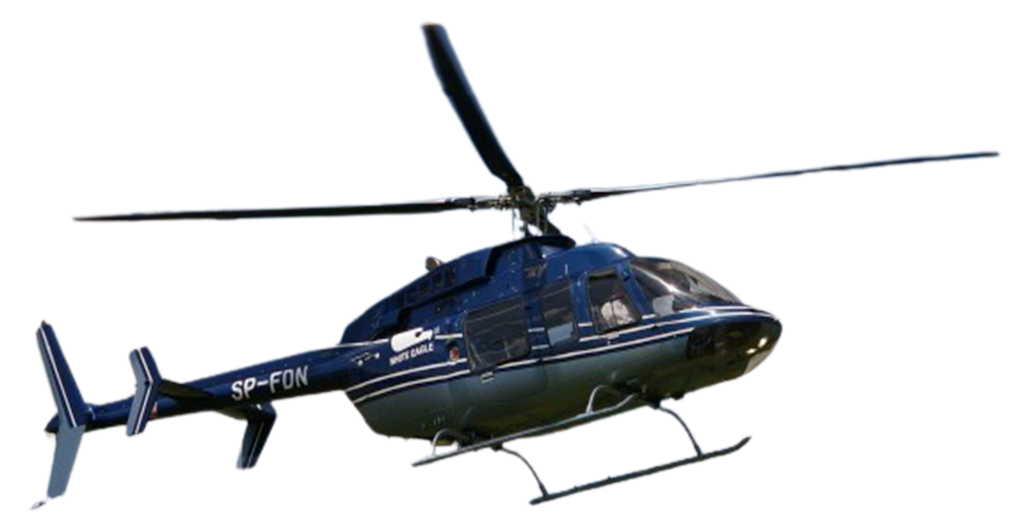
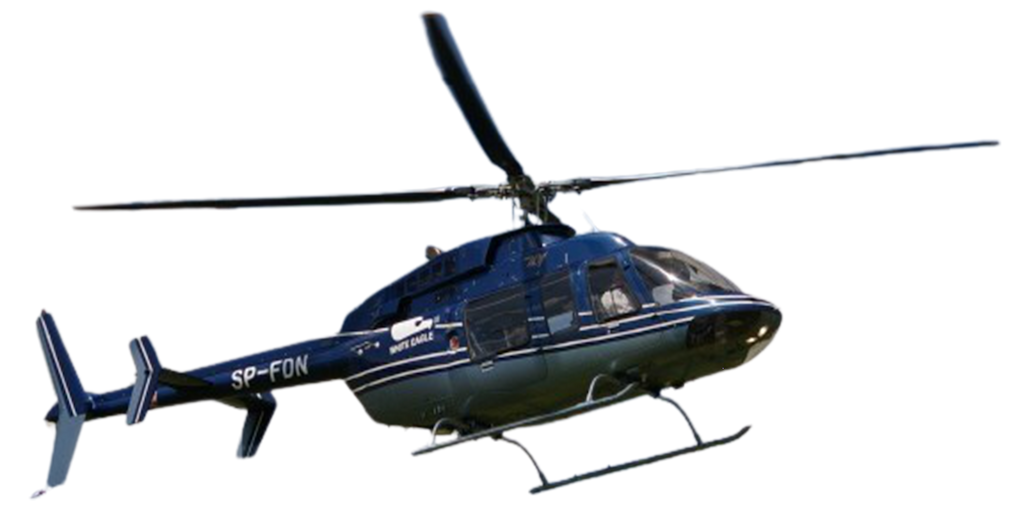
Go Nogo: 이미지 크기 수정

Changed region(s): [[0.0312, 0.0, 1.0, 0.9642]]

diff --git a/3. go nogo/go_nogo.py b/3. go nogo/go_nogo.py
@@ -25,12 +25,12 @@ height_map = {
     'Airplane.png': 1,
     'Ambulance.png': 1.05,
     'Bus.png': 0.8,
-    'Helicopter.png': 0.7,
+    'Helicopter.png': 0.8,
     'nogo-Bicycle.png': 0.7,
-    'Motorcycle.png': 0.7,
-    'Taxi.png': 0.7,
+    'Motorcycle.png': 0.8,
+    'Taxi.png': 0.75,
     'Ship.png': 0.87,
-    'Train.png': 1.15
+    'Train.png': 1.4
 }
 
 
